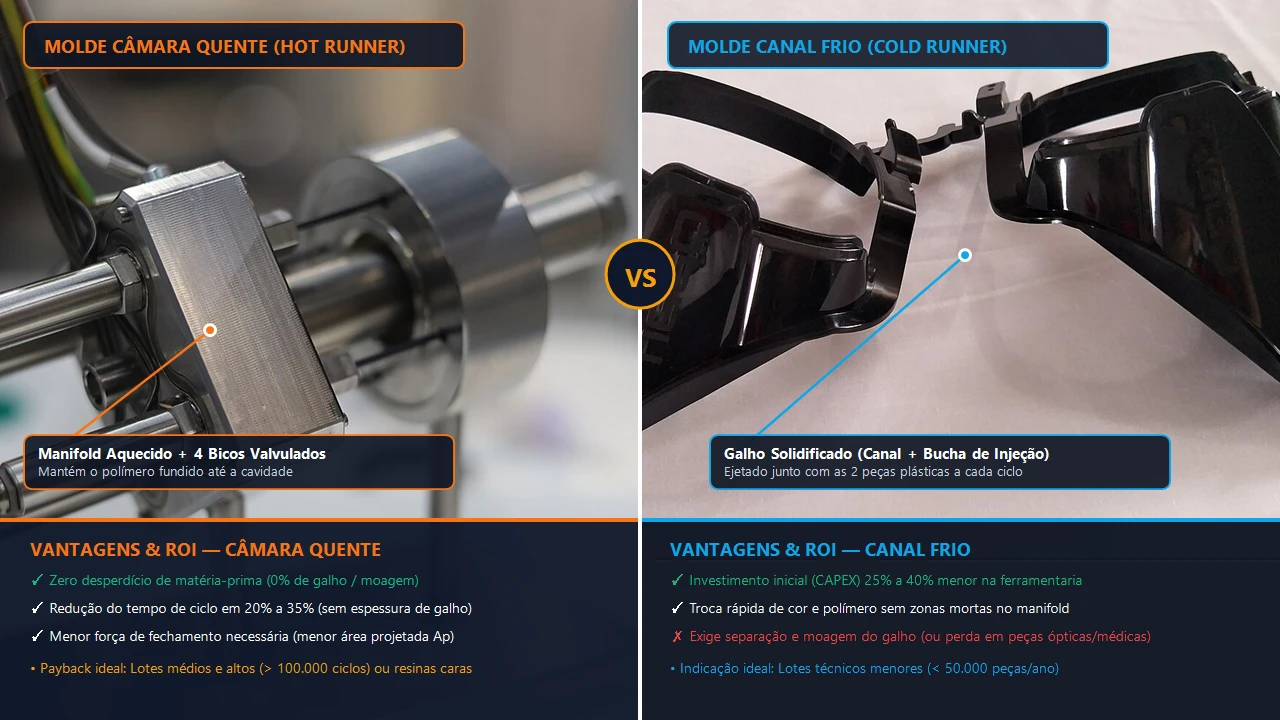
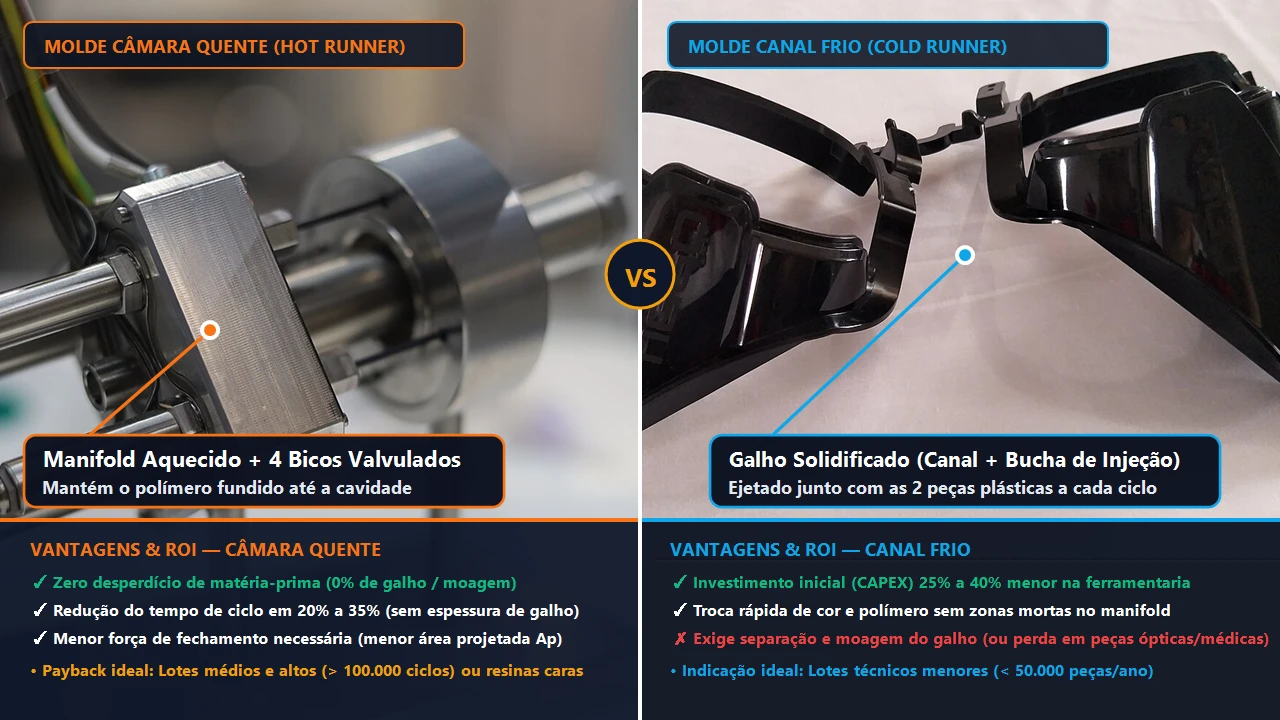
perf(imagens): amplia tipografia e contraste dos callouts e telemetria em todas as 22 imagens .webp

diff --git a/fabricacao-de-moldes-de-injecao.html b/fabricacao-de-moldes-de-injecao.html
@@ -407,7 +407,7 @@
         
         <!-- Coluna da Esquerda: Leque / Baralho Flutuante de Imagens (Fases 1, 2, 3 e 4) -->
         <div class="lg:col-span-5 flex flex-col items-center justify-center">
-          <div class="relative w-full max-w-[300px] sm:max-w-[330px] aspect-[3/4] min-h-[400px] sm:min-h-[440px] cursor-pointer select-none mx-auto my-3" id="shuffle-stage-fases-molde" title="Clique para avançar entre as Fases 1, 2, 3 e 4">
+          <div class="relative w-full max-w-[350px] sm:max-w-[390px] aspect-[3/4] min-h-[440px] sm:min-h-[490px] cursor-pointer select-none mx-auto my-3" id="shuffle-stage-fases-molde" title="Clique para avançar entre as Fases 1, 2, 3 e 4">
             
             <!-- Carta Fase 1: Engenharia Reológica & Simulação Moldflow -->
             <div class="pmi-fase-card absolute inset-0 rounded-2xl overflow-hidden shadow-2xl border border-slate-700/90 bg-slate-900 transition-all duration-700 ease-[cubic-bezier(0.4,0,0.2,1)]" data-phase="0">

diff --git a/servicos-de-injecao-plastica.html b/servicos-de-injecao-plastica.html
@@ -447,7 +447,7 @@
         
         <!-- Coluna Esquerda: Baralho Interativo das 4 Injetoras (Shuffle Cards) -->
         <div class="lg:col-span-5 flex flex-col items-center">
-          <div id="shuffle-stage-injetoras" class="relative w-full max-w-[330px] sm:max-w-[360px] aspect-[3/4] select-none cursor-pointer group" title="Clique para alternar entre as 4 classes de injetoras">
+          <div id="shuffle-stage-injetoras" class="relative w-full max-w-[350px] sm:max-w-[390px] aspect-[3/4] select-none cursor-pointer group" title="Clique para alternar entre as 4 classes de injetoras">
             
             <!-- Card 1: Injetora Servo-Hidráulica (80t a 150t) -->
             <div data-phase-card="0" class="phase-shuffle-card-inj absolute inset-0 rounded-2xl overflow-hidden shadow-2xl border-2 border-slate-700/80 bg-slate-900 transition-all duration-700 ease-out">
